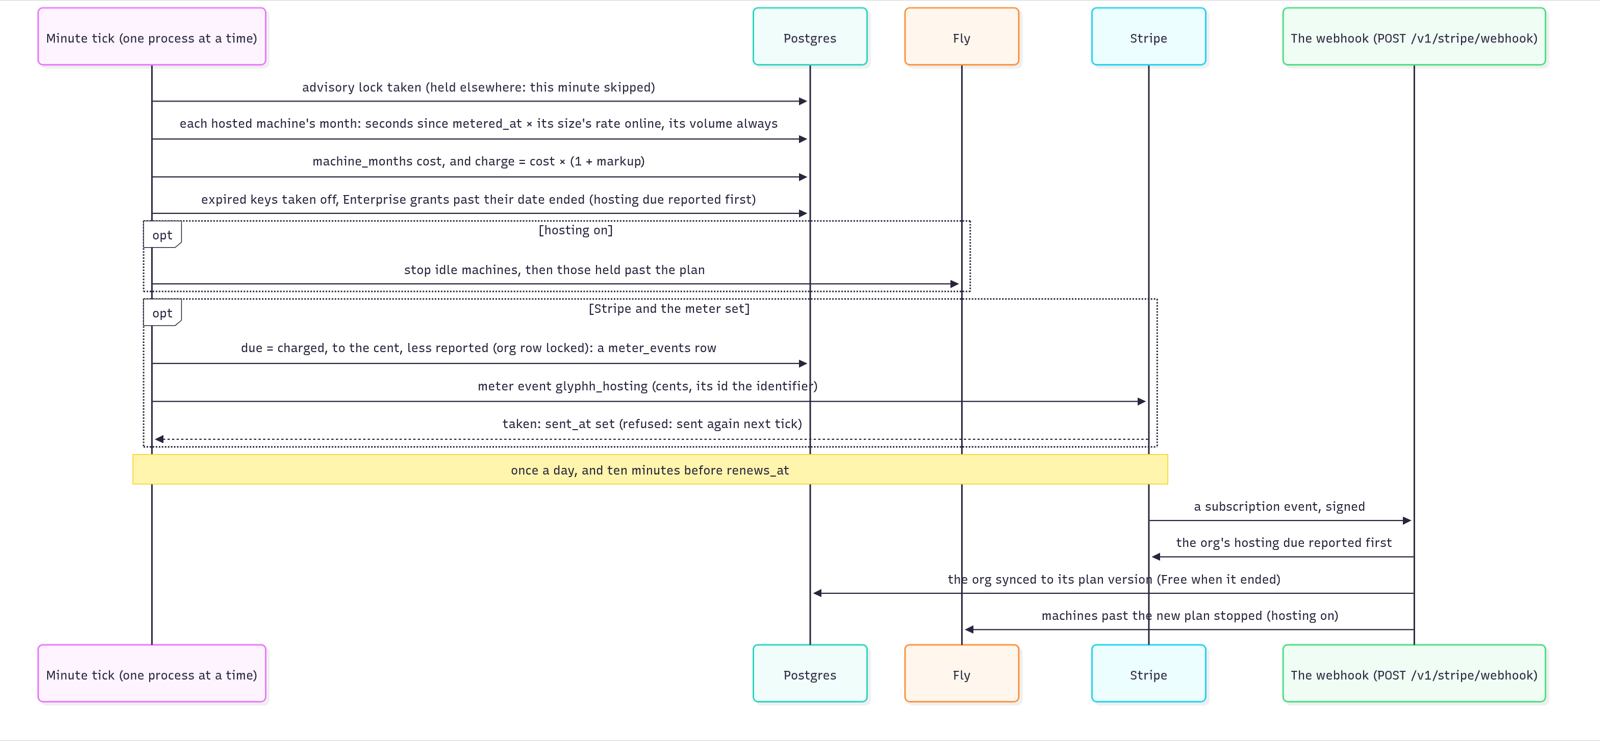
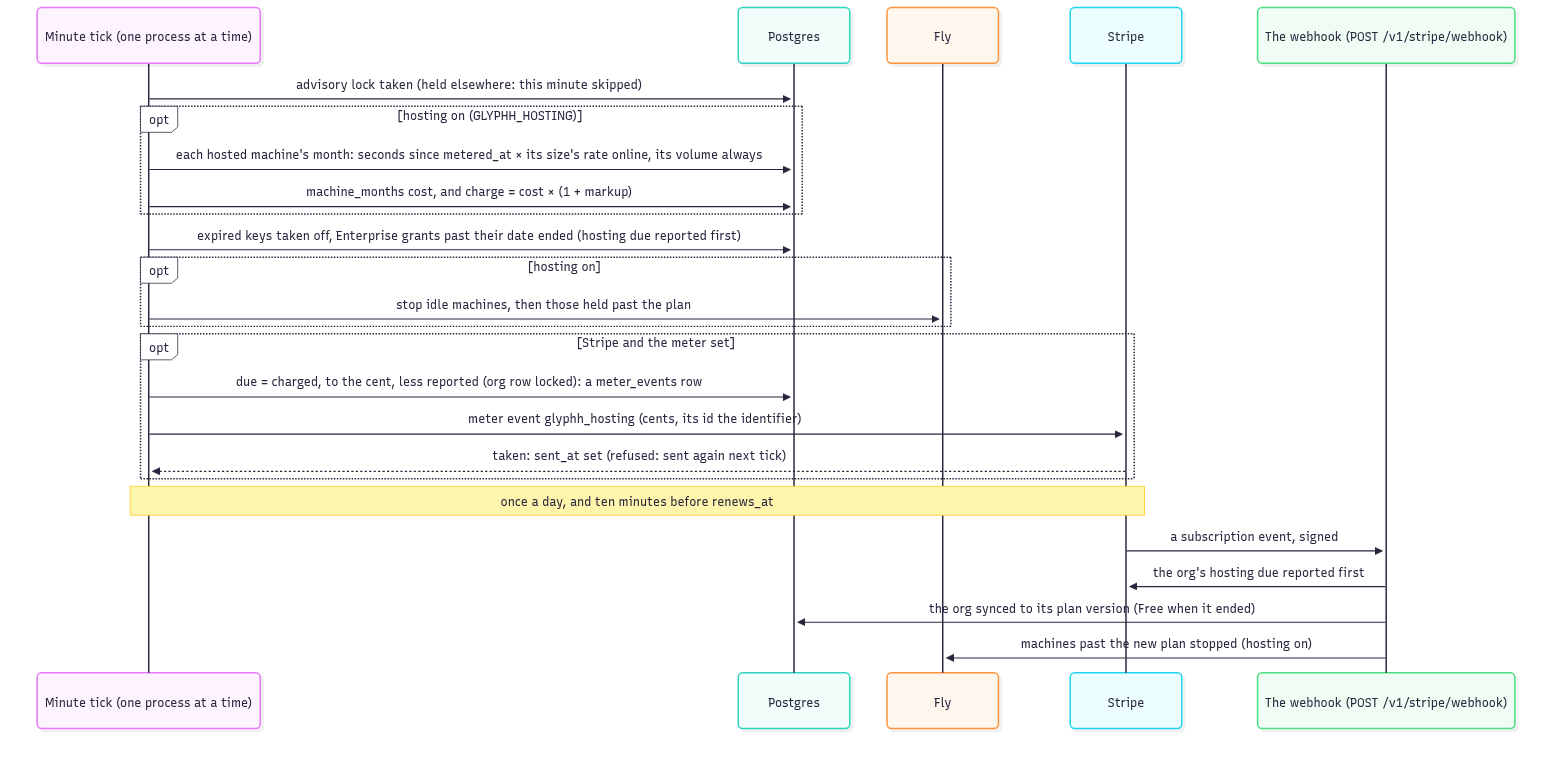
Plans: `built` beside `features` on every plan view (/v1/plans, and the plan in /v1/me, /v1/org, /v1/billing), from one constant, BUILT in ops/plans.py: only offline licences work today, so the platform never shows an unbuilt feature as included; the billing diagram re-rendered with metering only wi

diff --git a/src/glyphh_server/ops/plans.py b/src/glyphh_server/ops/plans.py
@@ -33,6 +33,10 @@ class Features(BaseModel):
     sso: bool = Field(description="SSO and SAML, roles and audit logs")
 
 
+# What works today, one source of truth: only offline licences; the other features are licence flags, not built.
+BUILT: Features = Features(sync=False, ha=False, offline=True, sso=False)
+
+
 class PlanView(BaseModel):
     name: str
     version: int
@@ -41,6 +45,10 @@ class PlanView(BaseModel):
     self_serve: bool = Field(description="Bought with Stripe Checkout; else talk to sales@glyphh.ai")
     limits: Limits
     features: Features
+    built: Features = Field(
+        BUILT,
+        description="Which features work today, the same on every plan: never show one as included that is not built",
+    )
     markup_hidden: Literal[True] = Field(True, description="The hosted rates already carry the plan's markup")
 
 

diff --git a/tests/api/test_billing.py b/tests/api/test_billing.py
@@ -33,9 +33,9 @@ async def test_the_plans_are_free_pro_team_and_enterprise_and_never_name_the_mar
         {"sync": True, "ha": True, "offline": True, "sso": True},
     ]
     assert all(p["markup_hidden"] is True and "markup_pct" not in p for p in plans)
-    assert {"name", "version", "price_cents", "interval", "self_serve", "limits", "features", "markup_hidden"} == set(
-        plans[0]
-    )
+    assert all(p["built"] == FEATURES_OFF | {"offline": True} for p in plans)  # only offline licences work today
+    keys = {"name", "version", "price_cents", "interval", "self_serve", "limits", "features", "built", "markup_hidden"}
+    assert keys == set(plans[0])
 
 
 async def test_checkout_makes_the_customer_once_and_sells_the_newest_flat_price(

diff --git a/tests/api/test_account.py b/tests/api/test_account.py
@@ -29,6 +29,7 @@ async def test_me_has_the_org_role_and_plan(client: httpx.AsyncClient, engine: A
         "self_serve": True,
         "limits": {"machines": 10, "precedents": 1_000_000},
         "features": {"sync": True, "ha": False, "offline": False, "sso": False},
+        "built": {"sync": False, "ha": False, "offline": True, "sso": False},
         "markup_hidden": True,
     }
     assert me["precedents"] == {"used": 0, "limit": 1_000_000} and me["hosting"]["machines"] == []

diff --git a/docs/architecture.md b/docs/architecture.md
@@ -404,7 +404,7 @@ A runtime's licence (in a hosted or self-hosted runtime's `welcome`, from a self
 
 A paid plan is one Stripe subscription: the plan's flat price and, with hosting on, the shared metered hosting price. Writes are the admin's.
 
-- **`GET /v1/plans`** (open): each active plan's newest version, `[{name, version, price_cents, interval, self_serve, limits: {machines, precedents}, features: {sync, ha, offline, sso}, markup_hidden: true}]`; `interval` is `month`, `year` or `null` (Free), `price_cents` `null` for Enterprise (each contract's), `limits.machines` 0 on every plan while hosting is off. Never the markup.
+- **`GET /v1/plans`** (open): each active plan's newest version, `[{name, version, price_cents, interval, self_serve, limits: {machines, precedents}, features: {sync, ha, offline, sso}, built: {sync, ha, offline, sso}, markup_hidden: true}]`; `built` says which features work today, the same on every plan (`offline` only: `BUILT` in `ops/plans.py`), so an unbuilt one is never shown as included; `interval` is `month`, `year` or `null` (Free), `price_cents` `null` for Enterprise (each contract's), `limits.machines` 0 on every plan while hosting is off. Never the markup.
 - **`GET /v1/rates`** (open): `{effective_from, region, sizes: [{size, cpu_kind, cpus, memory_mb, volume_gb}], plans: {"Pro": {sizes: [{size, cpu_kind, cpus, memory_mb, volume_gb, usd_per_month, usd_per_second}], volume_usd_per_gb_month}, "Team": …}}`: each size's machine, and each plan's whose newest version has a markup (Pro and Team), Fly's × (1 + its markup), to the cent a month and per second (a size's `usd_per_month` is a 30-day month started; its volume is apart, billed always). Never Fly's own rates, their source or the markup, from which the markup could be worked out; Enterprise's are its contract's. The region is `GLYPHH_FLY_REGION`, `effective_from` the newest date among the rates in force. A region with no rates is `E_UNAVAILABLE` `no_rates`; with hosting off, any request is `E_UNAVAILABLE` `hosting_off`.
 - **`GET /v1/billing`** (anyone in the org): `{plan (as in `/v1/plans`), billing_status, renews_at, plan_until, precedents: {used, limit}, hosting: {month, month_to_date_cents, machines: [{id, name, size, cents}]}}`: `used` is what the org's hosted runtimes last said they hold, `limit` the plan's bucket; `hosting` the month so far, all in, each machine's own (a deleted one too), in whole cents (each floored on its own, so the machines may sum to a cent or so less than the total). `GET /v1/me` carries the same `precedents` and `hosting`.
 - **`POST /v1/billing/checkout` `{plan}`**: Stripe Checkout for Pro or Team (the flat price, quantity 1, and with hosting on the metered hosting price). A plan with no Stripe price here (Free, or Pro and Team before their prices are set) is `E_INVALID` `not_sold`, Enterprise `E_INVALID` `not_self_serve` ("talk to us at sales@glyphh.ai"), an unknown plan `E_INVALID`, a subscribed org `E_CONFLICT` `subscribed`, a server without Stripe, or with hosting on and no hosting price, `E_UNAVAILABLE` `billing_off`.
@@ -424,8 +424,10 @@ sequenceDiagram
     participant S as Stripe
     participant W as The webhook (POST /v1/stripe/webhook)
     T->>DB: advisory lock taken (held elsewhere: this minute skipped)
-    T->>DB: each hosted machine's month: seconds since metered_at × its size's rate online, its volume always
-    T->>DB: machine_months cost, and charge = cost × (1 + markup)
+    opt hosting on (GLYPHH_HOSTING)
+        T->>DB: each hosted machine's month: seconds since metered_at × its size's rate online, its volume always
+        T->>DB: machine_months cost, and charge = cost × (1 + markup)
+    end
     T->>DB: expired keys taken off, Enterprise grants past their date ended (hosting due reported first)
     opt hosting on
         T->>F: stop idle machines, then those held past the plan
@@ -450,7 +452,7 @@ sequenceDiagram
 
 **Held past the plan.** A plan's machines are the org's, its oldest first. An org on a plan that allows fewer hosted machines than it holds (a subscription cancelled in the portal or ended, an Enterprise grant revoked or lapsed; the server's own plan changes refuse to get there) keeps its oldest machines up to the plan's running and has its newest beyond them stopped: from the webhook and `revoke` at once, and at every minute's tick, which also stops any a request woke on Fly's proxy since. Starting, restarting or waking one (`POST /v1/runtimes/{id}/start`, `/restart`, `/v1/runtime/start`, a deploy or an approval's answer that would wake it) is `E_LIMIT` `machines` (`used` the org's) until the org is on a plan that allows them or deletes enough: they keep their disks and may be deleted, and deleting one lets the next oldest start. A request at a held machine's own address is woken by Fly's proxy, and the next tick stops it again.
 
-**The minute tick** (`ops/tend.py`) runs whether or not hosting is on, in this order: with hosting on, each hosted machine's month tallied and metered (the diagram above is the tick with hosting on); the keys that expired taken off their runtimes; Enterprise grants past their date ended (their hosting due reported first); with hosting on, the idle machines stopped, then those held past the plan; with `GLYPHH_STRIPE_SECRET_KEY` and `GLYPHH_STRIPE_METER_HOSTING`, the meter reported. A failed tick is logged and the next minute comes. Every server process runs it, and production runs more than one: each tick takes a Postgres advisory lock (`pg_try_advisory_lock`, `TICK` in `ops/tend.py`) on a connection it holds for the tick and lets go after, so no two ticks run at once; a process that finds it held skips that minute. Ticks one after another in different processes may both run within a minute, and every part is safe to run again: metering counts the time since each machine was last metered, never a fixed minute.
+**The minute tick** (`ops/tend.py`) runs whether or not hosting is on, in this order: with hosting on, each hosted machine's month tallied and metered; the keys that expired taken off their runtimes; Enterprise grants past their date ended (their hosting due reported first); with hosting on, the idle machines stopped, then those held past the plan; with `GLYPHH_STRIPE_SECRET_KEY` and `GLYPHH_STRIPE_METER_HOSTING`, the meter reported. A failed tick is logged and the next minute comes. Every server process runs it, and production runs more than one: each tick takes a Postgres advisory lock (`pg_try_advisory_lock`, `TICK` in `ops/tend.py`) on a connection it holds for the tick and lets go after, so no two ticks run at once; a process that finds it held skips that minute. Ticks one after another in different processes may both run within a minute, and every part is safe to run again: metering counts the time since each machine was last metered, never a fixed minute.
 
 Stripe's products, prices and meter are made once per account with `scripts/stripe-setup.py` ([pricing.md](pricing.md#the-control-plane)).
 
